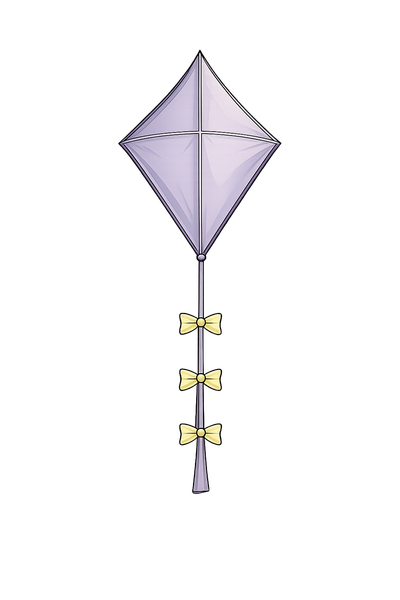
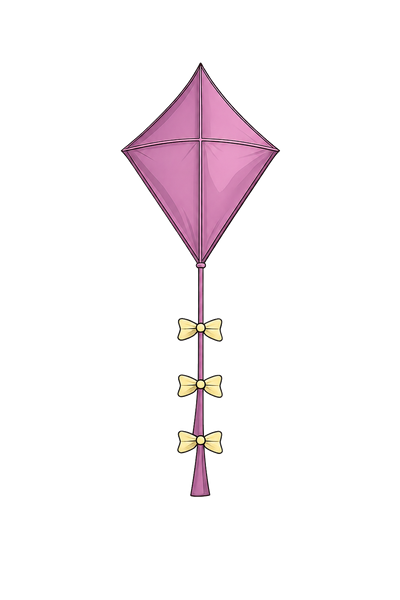
feat(vigilancia): alvos regerados por ela (P01/P02/P04) + escada segue a dificuldade medida (v2.61.0)
Ela regerou os alvos porque a pipa alvo estava 'muito diferente' das outras.
Medido (dE Lab entre o corpo do alvo e o do distrator):
  Ameixa      46,3 -> 19,3
  Azul ardosia 25,3 -> 13,0
  Verde salvia 33,3 -> 22,8

- as 3 imagens vieram com o xadrez de transparencia achatado; fundo removido por
  limiar (o xadrez fica em dif 2..11, a pipa passa de 30) e alfa real restaurado
- escada de niveis reordenada pela dificuldade REAL: P04 (22,8) -> P03 (19,4) ->
  P01 (19,3) -> P02 (13,0). Antes comecava em 19,3, caia para 13,0 no nivel 3 e
  terminava no par mais FACIL nos niveis 7-8
- dificuldadeVisual e deltaELab gravados no manifesto
- PIPA_V=2 (cache-bust): o arquivo mudou mantendo o nome

Claude-Session: https://claude.ai/code/session_01X2pHqBoMmx3RYe9vJdx7tp

Changed region(s): [[0.3, 0.09, 0.72, 0.84]]

diff --git a/lib/vigilancia-dados.ts b/lib/vigilancia-dados.ts
@@ -13,13 +13,13 @@ export interface Par {
 export interface Fundo { id: string; arquivo: string; complexidade: number }
 
 export const PARES: Par[] = [
-  { pairId: "P01", nome: "Ameixa suave", categoria: "tom", atributoDiferencial: "corCorpo", dificuldadeVisual: 1, permiteModoSemCor: false,
+  { pairId: "P01", nome: "Ameixa suave", categoria: "tom", atributoDiferencial: "corCorpo", dificuldadeVisual: 3, permiteModoSemCor: false,
     A: { id: "P01_A", arquivo: "P01_A.png", descricao: "ameixa suave clara" }, B: { id: "P01_B", arquivo: "P01_B.png", descricao: "ameixa suave escura" } },
-  { pairId: "P02", nome: "Azul ardósia", categoria: "tom", atributoDiferencial: "corCorpo", dificuldadeVisual: 2, permiteModoSemCor: false,
+  { pairId: "P02", nome: "Azul ardósia", categoria: "tom", atributoDiferencial: "corCorpo", dificuldadeVisual: 4, permiteModoSemCor: false,
     A: { id: "P02_A", arquivo: "P02_A.png", descricao: "azul ardósia claro" }, B: { id: "P02_B", arquivo: "P02_B.png", descricao: "azul ardósia escuro" } },
   { pairId: "P03", nome: "Terracota", categoria: "tom", atributoDiferencial: "corCorpo", dificuldadeVisual: 2, permiteModoSemCor: false,
     A: { id: "P03_A", arquivo: "P03_A.png", descricao: "terracota claro" }, B: { id: "P03_B", arquivo: "P03_B.png", descricao: "terracota escuro" } },
-  { pairId: "P04", nome: "Verde sálvia", categoria: "tom", atributoDiferencial: "corCorpo", dificuldadeVisual: 3, permiteModoSemCor: false,
+  { pairId: "P04", nome: "Verde sálvia", categoria: "tom", atributoDiferencial: "corCorpo", dificuldadeVisual: 1, permiteModoSemCor: false,
     A: { id: "P04_A", arquivo: "P04_A.png", descricao: "verde sálvia claro" }, B: { id: "P04_B", arquivo: "P04_B.png", descricao: "verde sálvia escuro" } },
   { pairId: "P05", nome: "Verde — laços", categoria: "quantidade de laços", atributoDiferencial: "qtdLacos", dificuldadeVisual: 4, permiteModoSemCor: true,
     A: { id: "P05_A", arquivo: "P05_A.png", descricao: "verde com 2 laços" }, B: { id: "P05_B", arquivo: "P05_B.png", descricao: "verde com 3 laços" } },
@@ -37,21 +37,24 @@ export const FUNDOS: Fundo[] = [
 // §16 Níveis visuais — 8 pipas SEMPRE; muda par (semelhança), arranjo (distância) e fundo.
 export interface NivelVisual { nivel: number; pairId: string; arranjo: Arranjo; fundo: string }
 export const NIVEIS: NivelVisual[] = [
-  { nivel: 1,  pairId: "P01", arranjo: "compacto",  fundo: "BG01" },
-  { nivel: 2,  pairId: "P01", arranjo: "expandido", fundo: "BG01" },
-  { nivel: 3,  pairId: "P02", arranjo: "compacto",  fundo: "BG01" },
-  { nivel: 4,  pairId: "P02", arranjo: "expandido", fundo: "BG02" },
-  { nivel: 5,  pairId: "P03", arranjo: "compacto",  fundo: "BG02" },
-  { nivel: 6,  pairId: "P03", arranjo: "expandido", fundo: "BG02" },
-  { nivel: 7,  pairId: "P04", arranjo: "compacto",  fundo: "BG03" },
-  { nivel: 8,  pairId: "P04", arranjo: "expandido", fundo: "BG03" },
+  { nivel: 1,  pairId: "P04", arranjo: "compacto",  fundo: "BG01" },
+  { nivel: 2,  pairId: "P04", arranjo: "expandido", fundo: "BG01" },
+  { nivel: 3,  pairId: "P03", arranjo: "compacto",  fundo: "BG01" },
+  { nivel: 4,  pairId: "P03", arranjo: "expandido", fundo: "BG02" },
+  { nivel: 5,  pairId: "P01", arranjo: "compacto",  fundo: "BG02" },
+  { nivel: 6,  pairId: "P01", arranjo: "expandido", fundo: "BG02" },
+  { nivel: 7,  pairId: "P02", arranjo: "compacto",  fundo: "BG03" },
+  { nivel: 8,  pairId: "P02", arranjo: "expandido", fundo: "BG03" },
   { nivel: 9,  pairId: "P05", arranjo: "compacto",  fundo: "BG04" },
   { nivel: 10, pairId: "P06", arranjo: "irregular", fundo: "BG04" },
 ];
 
 export const parById = (id: string) => PARES.find((p) => p.pairId === id) ?? PARES[0];
 export const fundoById = (id: string) => FUNDOS.find((f) => f.id === id) ?? FUNDOS[0];
-export const imgPipa = (arquivo: string) => `/exercises/vigilancia/pipas/${arquivo}`;
+// Sobe a cada troca de imagem que MANTÉM o nome do arquivo (senão o navegador serve a antiga).
+// v2 = 02/ago/2026: alvos de P01/P02/P04 regerados pela Kamylla (ficaram mais parecidos com o distrator).
+export const PIPA_V = 2;
+export const imgPipa = (arquivo: string) => `/exercises/vigilancia/pipas/${arquivo}?v=${PIPA_V}`;
 export const imgFundo = (arquivo: string) => `/exercises/vigilancia/fundos/${arquivo}`;
 export const TODAS_IMAGENS = [
   ...PARES.flatMap((p) => [imgPipa(p.A.arquivo), imgPipa(p.B.arquivo)]),
